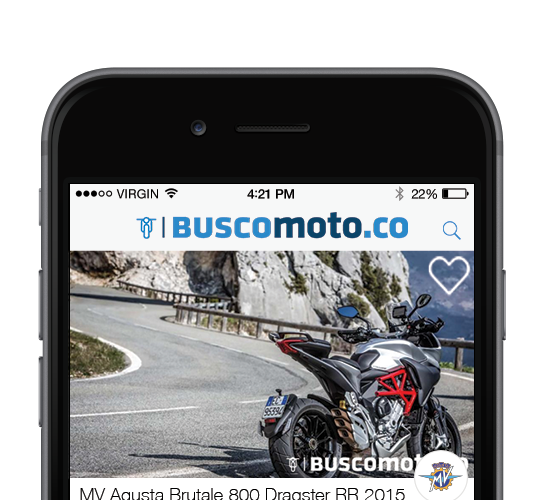
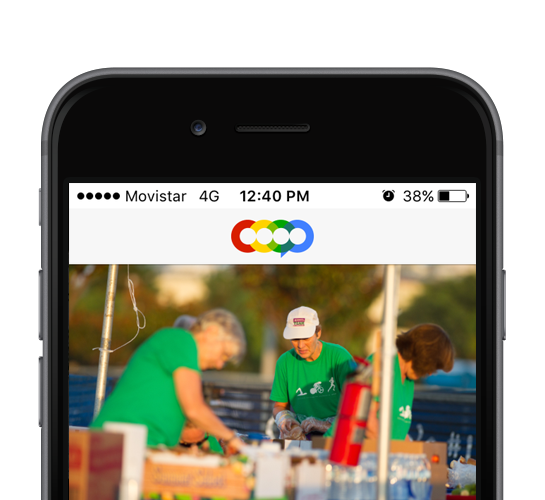
Changed home images

diff --git a/client/views/home/home.css b/client/views/home/home.css
@@ -1,5 +1,5 @@
 .home-cover{
-	background-image: url('/images/fp/header2.jpg');
+	background-image: url('/images/fp/header3.jpg');
 	height: 500px;
 }
 
